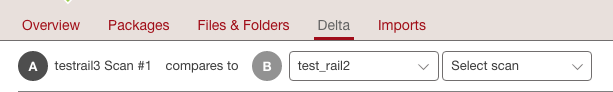
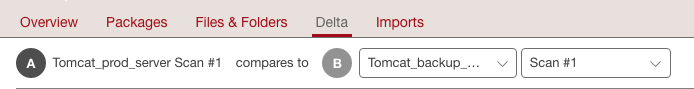
new screenshots with better name

diff --git a/end-user/en/source/pages/migration/scan-compare.rst b/end-user/en/source/pages/migration/scan-compare.rst
@@ -15,7 +15,7 @@ There are two methods to compare scans:
 
 		.. image:: /images/replatform-compare-icon.png
 
-	* selecting a specific scan and going to the ``Delta`` tab. By default the selected scan will be compared to a base machine. You can then modify the scan to compare to from the ``Compared to`` section, on the bottom left hand of the page.
+	* selecting a specific scan and going to the ``Delta`` tab. By default the selected scan will be compared to a base machine. You can then modify the scan to compare to, from the ``Compared to`` section, at the top of the page.
 
 		.. image:: /images/replatform-delta-tab.png
 
@@ -37,7 +37,7 @@ If you click on any of the squares, you will see the details of the file that di
 
 	.. image:: /images/scan-compare-details.png
 
-You can also see the changes as a list.
+You can also see the delta as a list.
 
 	.. image:: /images/scan-compare-list.png
 
